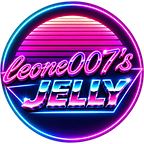
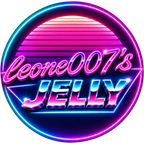
Kodi skin 2.12.12.35: JELLY badge without sharpening (plain LANCZOS)
The unsharp mask of 2.12.12.34 gave light halos around the letters.

Claude-Session: https://claude.ai/code/session_012ZhGU9Uvzabx8CiMNwiwgM

diff --git a/kodi/skin.arctic.fuse.2.jellynas/gen_jelly_media.py b/kodi/skin.arctic.fuse.2.jellynas/gen_jelly_media.py
@@ -2,7 +2,7 @@
 """JELLY branding textures (patch 11) from the owner's images in forras/ -> files/media/jellynas/.
 
 jelly_loading.jpg  1920x1080 loading background (from forras/jelly_betoltes.webp)
-jelly_badge.png    144x144 round JELLY badge, real alpha: LANCZOS from the 512 source + light unsharp mask (shown at 72 px)
+jelly_badge.png    144x144 round JELLY badge, real alpha: plain LANCZOS from the 512 source (shown at 72 px)
 avatar_mask.png    132x132 rounded square (diffuse mask of the Jellyfin user picture, shown at 66 px)
 avatar_frame.png   152x152 rounded-square neon frame, cyan -> pink, transparent inside (shown at 76 px)
 spinner.png        72x72 ring with a cyan arc (rotated by the skin, shown at 36 px)
@@ -53,8 +53,7 @@ def main():
     bg.save(os.path.join(OUT, 'jelly_loading.jpg'), quality=86, optimize=True, progressive=False)
 
     badge = Image.open(os.path.join(SRC, 'jelly_badge_512.png')).convert('RGBA').resize((72 * K, 72 * K), Image.LANCZOS)
-    rgb = badge.convert('RGB').filter(ImageFilter.UnsharpMask(radius=0.8, percent=60, threshold=1))
-    badge = Image.merge('RGBA', rgb.split() + (badge.split()[3],))
+    # no sharpening: LANCZOS at 2x is sharp enough; an unsharp mask gave light halos around the letters (2.12.12.34)
     badge.save(os.path.join(OUT, 'jelly_badge.png'), optimize=True)
 
     m = rounded(PIC, 0, RAD)

diff --git a/tools/kodi_skin_build.py b/tools/kodi_skin_build.py
@@ -18,7 +18,7 @@ SRC = os.path.join(R, 'kodi', 'skin.arctic.fuse.2.jellynas')
 UPSTREAM = 'https://github.com/jurialmunkey/skin.arctic.fuse.2'
 BRANCH, COMMIT, UPSTREAM_VERSION = 'omega', 'e138a25fe11f24254c6456711d37ac9d1053f541', '2.12.12'
 SKIN_ID, SKIN_NAME = 'skin.arctic.fuse.2.jellynas', 'Arctic Fuse 2 JELLYNAS'
-VERSION = UPSTREAM_VERSION + '.34'   # our build number after the upstream version
+VERSION = UPSTREAM_VERSION + '.35'   # our build number after the upstream version
 CACHE = os.path.expanduser('~/.cache/jellynas/skin.arctic.fuse.2')
 SKIP = ('.git*',)   # .git, .github, .gitattributes, .gitignore
 GH_REPO, KEEP = 'leone007/unraid-mediaserver-tools', 3

diff --git a/NOTES.md b/NOTES.md
@@ -354,7 +354,7 @@ For whoever (human or Claude) continues this project. Author: leone007. Server: 
 - The public address answers 403 to Python's default User-Agent `Python-urllib/3.x` (Cloudflare Browser Integrity Check, seen in its Security Analytics 2026-11-06, not NPM; seen in the Mac's Kodi log, reproduced from the container): every request sends `JELLYNAS/<version> (Kodi)` (0.1.2). Kodi reads a repository add-on's assets from `<datadir>/<id>/<path in addon.xml>`; `kodi_build.py` copies them there.
 
 ## Kodi: Arctic Fuse 2 JELLYNAS fork (skin.arctic.fuse.2.jellynas, item 141)
-- JELLY branding (skin 2.12.12.32, patch 11 + add-on 0.2.9, owner 2026-11-28, mockup approved): `Hub_Widget_Splash` (Includes_Hubs.xml) is the loading screen of the startup window 1198 and of the wait-for-widgets splash; it now draws our `jellynas/jelly_loading.jpg` (aspect scale, so the 3:2 Mac crops the sides, the logo stays) and a fixed-width spinner + label group centred with `centerleft 50%` (no auto-width grouplist). Kodi's own splash before the skin loads is a different thing (splash.jpg in userdata / advancedsettings), not changed. Side menu (Includes_Home.xml): avatar in `Home_Menu_Vert_Header` (Topbar, centre y 100), search 309 at centertop 220 (focused circle 80 px: `circlebutton.png` 160 px has an 80 px opaque disc), options 308 at centerbottom 220 (removed: `Home_Menu_Vert_Option` no longer included; the nav that pointed at 308 now wraps: search Up -> `SetFocus(300,9999,absolute)`, list Down -> 309 in `Action_HomeMenu_OnRightLeft`), Kodi logo in `Home_Menu_Vert_Bottom` (40 px box, bordersize -16 = 72 px). The Hubs top bar has its own 308/309 (`Hub_Categories_Options`), untouched. Remote picture: `<texture diffuse="jellynas/avatar_mask.png">` with a Jellyfin URL (`/Users/<id>/Images/Primary?tag=` needs no login). The add-on sets `JellynasUser.Image/Name/Rev` on Home at the first widget call of a Kodi run (GET /Users/<id>), again after 6 h, after a failure not for 10 min. Texture size lesson (11-28): 2.12.12.32 (badge 256 px for 72, avatar 1x) looked soft on the Shield 4K; 2.12.12.33 went to 4x (badge 512) and looked jagged on the Fire TV Stick 4K Max (GUI 1080p): Kodi GUI textures have no mipmaps and are scaled bilinear, so a big downscale aliases. Rule: ship own textures at 1-2x the drawn size, pre-filtered offline (LANCZOS, light unsharp mask; 2.12.12.34: badge 144, frame 152, mask 132, spinner 72), and ask Jellyfin images at 2x the drawn size (avatar maxWidth=132, quality 95, add-on 0.2.11); no JPG for alpha art; AF2 fades the whole side menu bottom group to 70 %, so a coloured badge must sit outside that group.
+- JELLY branding (skin 2.12.12.32, patch 11 + add-on 0.2.9, owner 2026-11-28, mockup approved): `Hub_Widget_Splash` (Includes_Hubs.xml) is the loading screen of the startup window 1198 and of the wait-for-widgets splash; it now draws our `jellynas/jelly_loading.jpg` (aspect scale, so the 3:2 Mac crops the sides, the logo stays) and a fixed-width spinner + label group centred with `centerleft 50%` (no auto-width grouplist). Kodi's own splash before the skin loads is a different thing (splash.jpg in userdata / advancedsettings), not changed. Side menu (Includes_Home.xml): avatar in `Home_Menu_Vert_Header` (Topbar, centre y 100), search 309 at centertop 220 (focused circle 80 px: `circlebutton.png` 160 px has an 80 px opaque disc), options 308 at centerbottom 220 (removed: `Home_Menu_Vert_Option` no longer included; the nav that pointed at 308 now wraps: search Up -> `SetFocus(300,9999,absolute)`, list Down -> 309 in `Action_HomeMenu_OnRightLeft`), Kodi logo in `Home_Menu_Vert_Bottom` (40 px box, bordersize -16 = 72 px). The Hubs top bar has its own 308/309 (`Hub_Categories_Options`), untouched. Remote picture: `<texture diffuse="jellynas/avatar_mask.png">` with a Jellyfin URL (`/Users/<id>/Images/Primary?tag=` needs no login). The add-on sets `JellynasUser.Image/Name/Rev` on Home at the first widget call of a Kodi run (GET /Users/<id>), again after 6 h, after a failure not for 10 min. Texture size lesson (11-28): 2.12.12.32 (badge 256 px for 72, avatar 1x) looked soft on the Shield 4K; 2.12.12.33 went to 4x (badge 512) and looked jagged on the Fire TV Stick 4K Max (GUI 1080p): Kodi GUI textures have no mipmaps and are scaled bilinear, so a big downscale aliases. Rule: ship own textures at 1-2x the drawn size, pre-filtered offline with plain LANCZOS, NO sharpening (2.12.12.34's light unsharp mask gave halos around the badge letters, owner: "nem kell ennyi élesítés"; 2.12.12.35 without it; sizes since 2.12.12.34: badge 144, frame 152, mask 132, spinner 72), and ask Jellyfin images at 2x the drawn size (avatar maxWidth=132, quality 95, add-on 0.2.11); no JPG for alpha art; AF2 fades the whole side menu bottom group to 70 %, so a coloured badge must sit outside that group.
 - Player process info (skin 2.12.12.29, patch 10, item 187, owner 2026-11-22): one window (h740) for films and live TV, no PVR tuner rows. Direct Play / Transcode = `Label_JellynasPlayMethod` guesses from `Player.Filenameandpath` (`master.m3u8`, `/hls`, `transcod` = transcode); the Kofin play URL was never seen, so this is unverified; on live TV (pvr:// path) the label is left out. Stream counts (1/3) left out: not sure Kodi 21 has a player-side stream count label. Chapter only when ChapterCount > 1. Own strings 31900-31913. `System.FPS` is Kodi's GUI render rate, not the video's: with Android MediaCodec Surface (`amc-...(S)`) the video bypasses it; seen live 2026-11-22: Fire TV Stick 4K Max showed 20.59 with the blurred dialog open on 50 fps live TV while the picture was perfectly smooth (owner); the Shield showed 50.
 - Only patches in `kodi/skin.arctic.fuse.2.jellynas/patches/`; `tools/kodi_skin_build.py` fetches upstream AF2 (omega, pinned commit e138a25 = 2.12.12) into `~/.cache/jellynas/`, applies the patches, renames the id in addon.xml and zips to `/work/outputs/` (67 MB; GitHub's 100 MB file limit and repo size keep it out of dist/kodi). Licence CC BY-NC-SA 4.0: attribution in addon.xml, non-commercial.
 - Every other `skin.arctic.fuse.2` string inside the skin stays: `Path_SkinVariables_SkinFolder` and `shortcuts/skinvariables-generator.json` name the script.skinvariables node folder (`addon_data/script.skinvariables/nodes/skin.arctic.fuse.2`), so the fork uses the owner's AF2 menus and widgets. Skin settings (`addon_data/<skin id>/settings.xml`, Skin.String/Bool) are per id: copied once by hand.

diff --git a/kodi/skin.arctic.fuse.2.jellynas/README.md b/kodi/skin.arctic.fuse.2.jellynas/README.md
@@ -53,7 +53,7 @@ Patches:
   Catalog details (`jellynas.kind=catalog`): no Trailer and Wiki buttons, Play only with `jellynas.playable`.
 - `09-hu-season-labels.patch` (2.12.12.28): the Hungarian episode badges say évad, not szezon: Sorozatnyitó, Évadnyitó, Évadközi nyitó, Sorozatzáró, Évadzáró, Évadközi záró (upstream hu_hu strings 31210-31218 said Szezon bemutató, Szezon finálé, Rész bemutató).
 - `10-process-info.patch` (2.12.12.29): Player process info (O key) is one window for films and live TV: the PVR tuner rows (signal, SNR, BER, mux...) are gone (pvr.kofin has none); new rows Audio | Subtitle, Display (screen mode + render fps), Playback | Cache (Direct Play / Transcode guessed from the played URL, cache level), Ends at | Chapter (films) or Channel | Programme ends (live TV). Strings 31900-31913 (en_gb, hu_hu). 2.12.12.30: render fps on its own line; a chapter name that is only Chapter N / Fejezet N is not shown. 2.12.12.31: the render fps is labelled GUI (it is Kodi's GUI rate, not the video's).
-- `11-jelly-branding.patch` (2.12.12.32): JELLY branding. The loading splash (`Hub_Widget_Splash`, startup window 1198 and the wait-for-widgets splash) shows `media/jellynas/jelly_loading.jpg` over the whole window (scale: 3:2 crops the sides) with a spinner and "Betöltés…" (string 31920) in the dark band, 110 px above the bottom, centred on the window. Vertical side menu: the top picture is the Jellyfin user's (`Image_JellynasUser`: Home property `JellynasUser.Image` from plugin.video.jellynas 0.2.9, else the Kodi profile picture), a 66 px rounded square in a 76 px cyan-to-pink frame (`avatar_mask.png`, `avatar_frame.png`); the options (hamburger) button is gone (search Up wraps to the last menu item, the last item Down to search); the Kodi logo at the bottom is the round JELLY badge (`jelly_badge.png`, 72 px, the logo's box). Textures: `gen_jelly_media.py` from `forras/`. 2.12.12.33 (owner on the Shield 4K TV: picture and badge looked soft): every texture is 4x its skin size (badge 512 px = the source, frame 304, mask 264, spinner 144; shapes supersampled and reduced with LANCZOS), the badge has its own 72 px box and is no longer under AF2's 70 % fade (the label keeps it); add-on 0.2.10 asks the user picture at maxWidth/maxHeight 512, quality 95. 2.12.12.34 (Fire TV Stick 4K Max: the 4x badge looked jagged): textures 2x their drawn size, pre-filtered (badge 144 LANCZOS + light unsharp mask, frame 152, mask 132, spinner 72), add-on 0.2.11 asks the picture at 132 px.
+- `11-jelly-branding.patch` (2.12.12.32): JELLY branding. The loading splash (`Hub_Widget_Splash`, startup window 1198 and the wait-for-widgets splash) shows `media/jellynas/jelly_loading.jpg` over the whole window (scale: 3:2 crops the sides) with a spinner and "Betöltés…" (string 31920) in the dark band, 110 px above the bottom, centred on the window. Vertical side menu: the top picture is the Jellyfin user's (`Image_JellynasUser`: Home property `JellynasUser.Image` from plugin.video.jellynas 0.2.9, else the Kodi profile picture), a 66 px rounded square in a 76 px cyan-to-pink frame (`avatar_mask.png`, `avatar_frame.png`); the options (hamburger) button is gone (search Up wraps to the last menu item, the last item Down to search); the Kodi logo at the bottom is the round JELLY badge (`jelly_badge.png`, 72 px, the logo's box). Textures: `gen_jelly_media.py` from `forras/`. 2.12.12.33 (owner on the Shield 4K TV: picture and badge looked soft): every texture is 4x its skin size (badge 512 px = the source, frame 304, mask 264, spinner 144; shapes supersampled and reduced with LANCZOS), the badge has its own 72 px box and is no longer under AF2's 70 % fade (the label keeps it); add-on 0.2.10 asks the user picture at maxWidth/maxHeight 512, quality 95. 2.12.12.34 (Fire TV Stick 4K Max: the 4x badge looked jagged): textures 2x their drawn size, pre-filtered (badge 144 LANCZOS + light unsharp mask, frame 152, mask 132, spinner 72), add-on 0.2.11 asks the picture at 132 px. 2.12.12.35: no unsharp mask on the badge (it gave light halos), plain LANCZOS.
 
 The menus and widgets are shared with Arctic Fuse 2 (script.skinvariables keeps them under the upstream skin id);
 the skin settings (`addon_data/<skin id>/settings.xml`) are per skin id and are copied once by hand.
